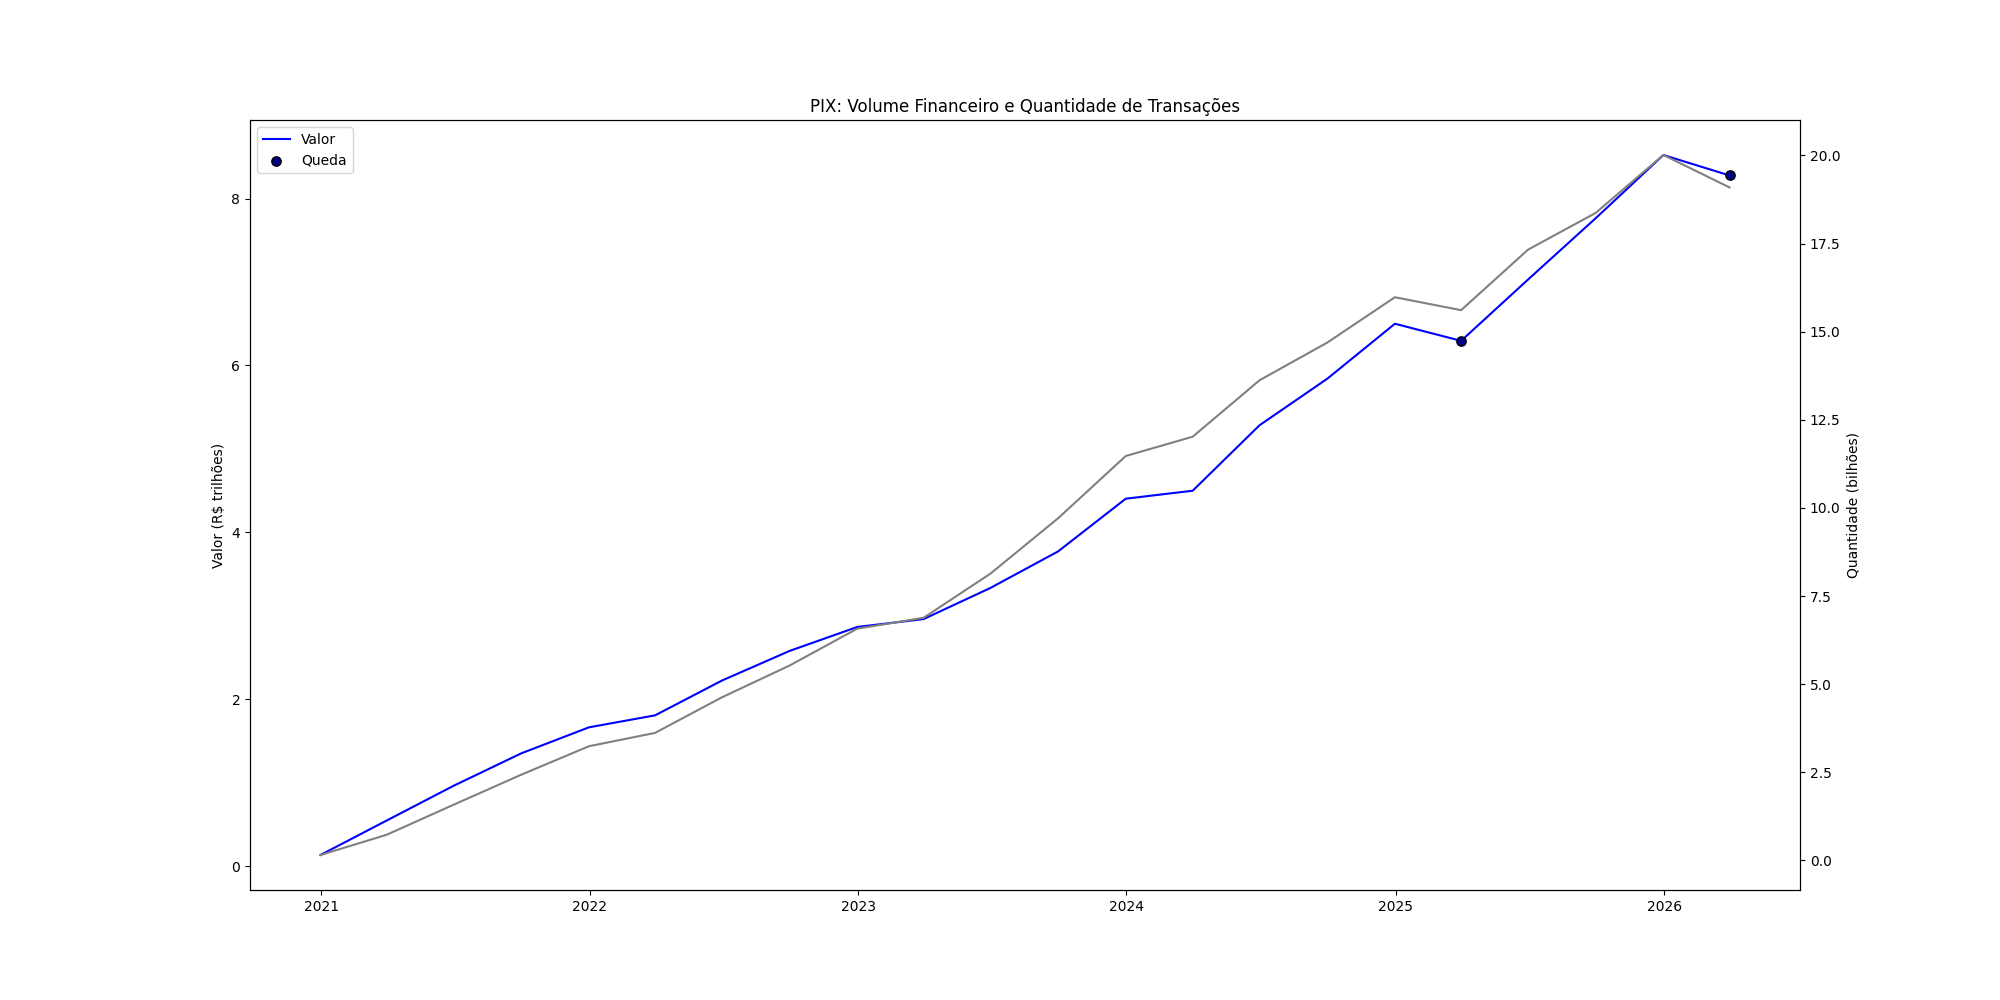
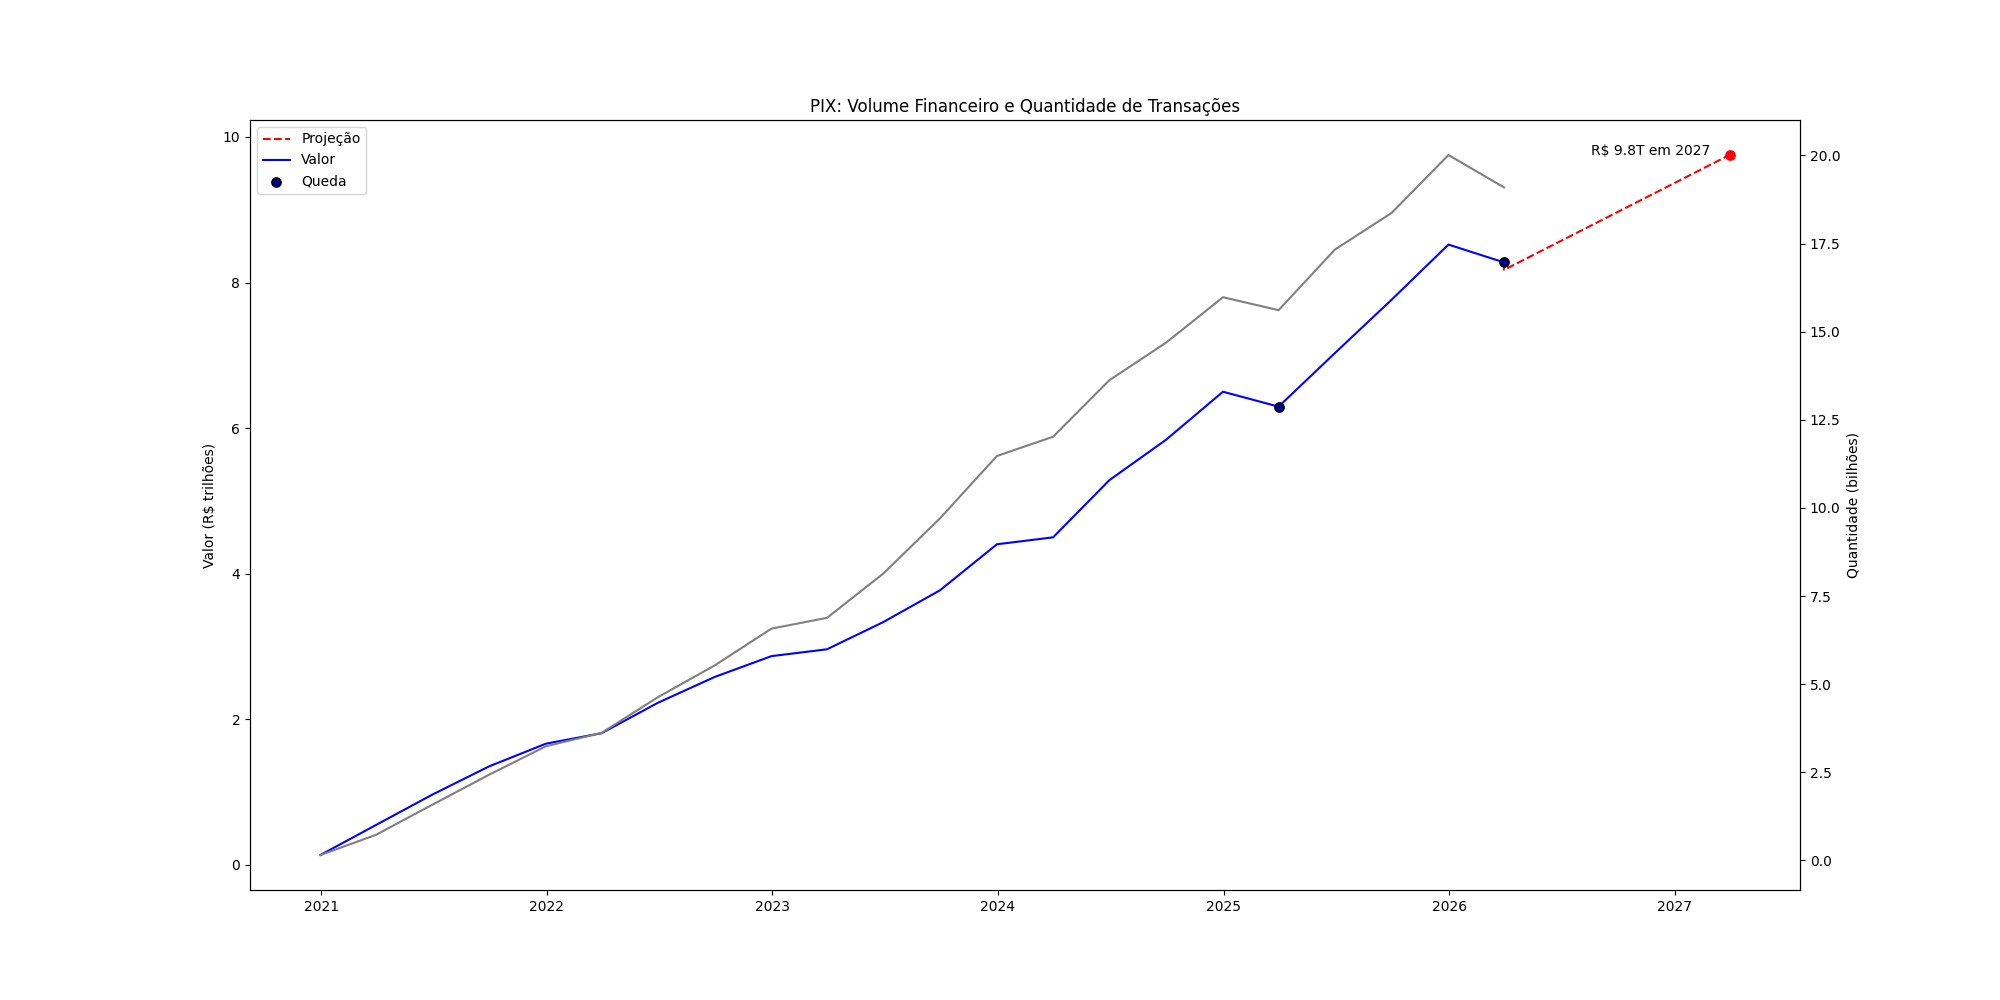
feat: projeção linear de volume financeiro PIX até 2027

diff --git a/src/visualize.py b/src/visualize.py
@@ -1,5 +1,6 @@
 import pandas as pd
 import matplotlib.pyplot as plt
+import numpy as np
 
 df = pd.read_csv('data/processed/pix_data.csv')
 
@@ -9,16 +10,39 @@ df['VALOR_TRI'] = df['VALOR'] / 1e12
 df_trim = df.resample('QE', on='AnoMes').sum()
 df_trim['QUANTIDADE_BI'] = df_trim['QUANTIDADE'] / 1e9
 
+# Datas futuras
+future_date = pd.date_range(df_trim.index[-1], periods=5, freq='QE')
+future_num = future_date.astype(np.int64) / 10**9
+
+# Tendência
+np_num = df_trim.index.astype(np.int64) / 10**9
+coef = np.polyfit(np_num, df_trim['VALOR_TRI'], 1)
+
+# Projeção
+projection = np.polyval(coef, future_num)
+
 # Helper
 quedas = df_trim[df_trim['VALOR_TRI'].pct_change() < 0]
 
 # Gráficos
 fig, ax1 = plt.subplots(figsize=(20, 10))
 
+# Valor e projeção
+datas_conectadas = pd.DatetimeIndex([df_trim.index[-1]]).append(future_date)
+valores_conectados = np.append(df_trim['VALOR_TRI'].iloc[-1], projection)
+ax1.plot(datas_conectadas, valores_conectados, color='red', linestyle='--', label='Projeção')
 ax1.plot(df_trim.index, df_trim['VALOR_TRI'], color='blue', label='Valor')
 ax1.set_ylabel('Valor (R$ trilhões)', color='black')
 ax1.tick_params(axis='y', labelcolor='black')
+ax1.annotate(f'R$ {projection[-1]:.1f}T em 2027', 
+             xy=(future_date[-1], projection[-1]),
+             xytext=(-100,0),
+             textcoords='offset points',
+             fontsize=10,
+             ha='left')
+ax1.scatter(future_date[-1], projection[-1], color='red', zorder=5, s=45)
 
+# Quantidade
 ax2 = ax1.twinx()
 ax2.plot(df_trim.index, df_trim['QUANTIDADE_BI'], color='gray', label='Quantidade')
 ax2.set_ylabel('Quantidade (bilhões)', color='black')
@@ -30,4 +54,3 @@ ax1.legend(loc='upper left')
 plt.title('PIX: Volume Financeiro e Quantidade de Transações')
 plt.savefig('outputs/pix_volume_quantidade.png')
 
-print(quedas.index)
